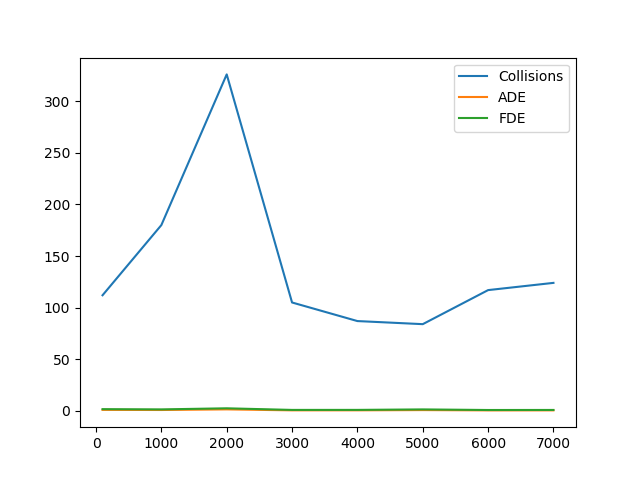
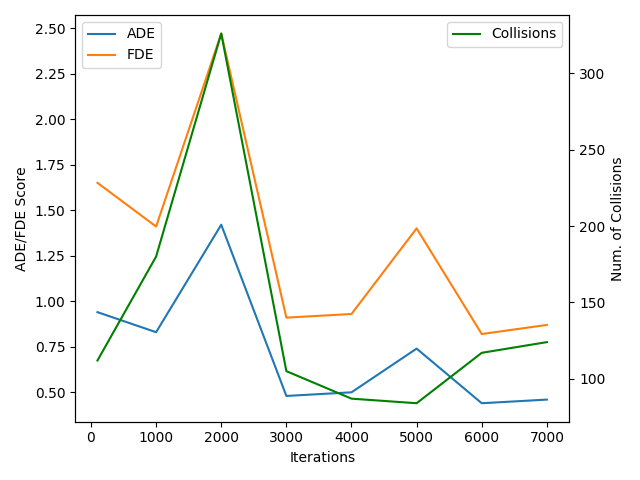
plots

diff --git a/final_report/bar.py b/final_report/bar.py
@@ -1,0 +1,56 @@
+import matplotlib
+import matplotlib.pyplot as plt
+import numpy as np
+
+
+labels = ['SGAN', 'OSGAN', 'VOSGAN-90', 'VOSGAN-10', 'GOAttGAN-10', 'GOAttGAN-5', 'Hybrid 1', 'Hybrid 2', 'Dis. Noise', 'Dis. Mod.']
+ades = [.41,.39,2.18,.51,.48,.51,.59,.88,.6,.64]
+fdes = [.8,.77,5.75,.95,.91,.95,1.09,1.56,1.07,1.05]
+cols = [172,66,522,271,86, 185, 280, 365, 419, 250]
+
+x = np.arange(len(labels))  # the label locations
+width = 0.35  # the width of the bars
+
+fig = plt.figure()
+ax = fig.add_subplot(211)
+ax2 = fig.add_subplot(212)
+rects1 = ax.bar(x - width/2, ades, width, label='ADE')
+rects2 = ax.bar(x + width/2, fdes, width, label='FDE')
+rects3 = ax2.bar(x, cols, width, label='Collisions', color="g")
+
+# Add some text for labels, title and custom x-axis tick labels, etc.
+ax.set_ylabel('Scores')
+ax.set_xticks(x)
+ax.set_xticklabels(labels)
+ax.legend()
+
+ax2.set_ylabel('Collisions')
+ax2.set_xticks(x)
+ax2.set_xticklabels(labels)
+ax2.legend()
+
+def autolabel(rects, ax):
+    """Attach a text label above each bar in *rects*, displaying its height."""
+    for rect in rects:
+        height = rect.get_height()
+        ax.annotate('{}'.format(height),
+                    xy=(rect.get_x() + rect.get_width() / 2, height),
+                    xytext=(0, 3),  # 3 points vertical offset
+                    textcoords="offset points",
+                    ha='center', va='bottom')
+
+
+autolabel(rects1, ax)
+autolabel(rects2, ax)
+autolabel(rects3, ax2)
+
+ax.spines['right'].set_visible(False)
+ax.spines['top'].set_visible(False)
+ax2.spines['right'].set_visible(False)
+ax2.spines['top'].set_visible(False)
+
+
+
+fig.tight_layout()
+
+plt.show()

diff --git a/final_report/coll.py b/final_report/coll.py
@@ -6,8 +6,21 @@ col = [112,180,326,105,87,84,117,124]
 ade = [.94,.83,1.42,.48,.5,.74,.44,.46]
 fde = [1.65,1.41,2.47,.91,.93,1.4,.82,.87]
 
-plt.plot(itr, col, label="Collisions")
-plt.plot(itr, ade, label="ADE")
-plt.plot(itr, fde, label="FDE")
-plt.legend()
+fig, ax1 = plt.subplots()
+ax1.set_xlabel("Iterations")
+ax1.set_ylabel('ADE/FDE Score')
+ax1.plot(itr, ade, label="ADE")
+ax1.plot(itr, fde, label="FDE")
+ax1.tick_params(axis='y')
+
+ax2 = ax1.twinx()  # instantiate a second axes that shares the same x-axis
+
+ax2.set_ylabel('Num. of Collisions')  # we already handled the x-label with ax1
+ax2.plot(itr, col, label="Collisions", color="g")
+ax2.tick_params(axis='y')
+
+fig.tight_layout()  # otherwise the right y-label is slightly clipped
+
+ax1.legend(loc=2)
+ax2.legend(loc=1)
 plt.savefig("coll_itr.png")
